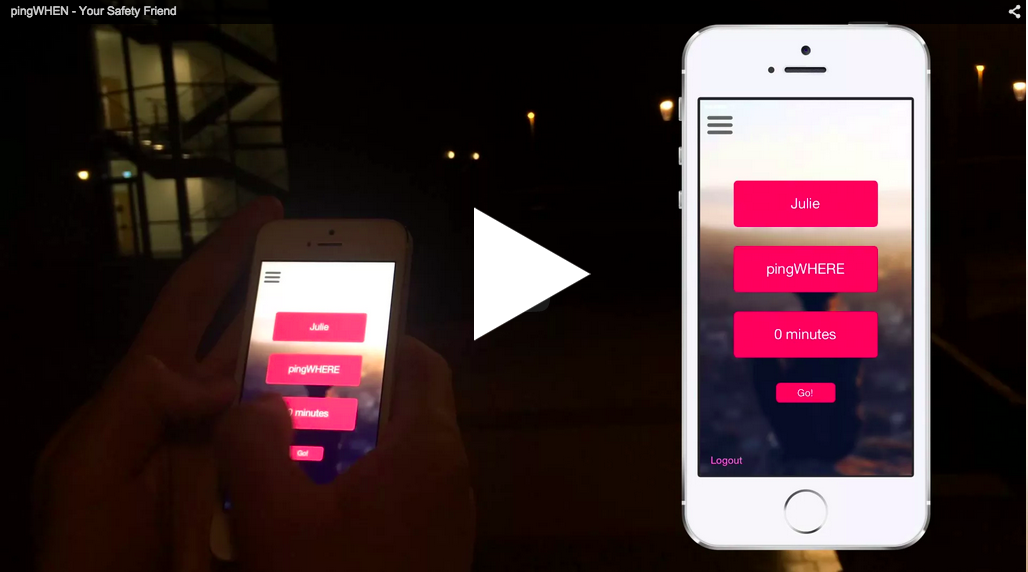
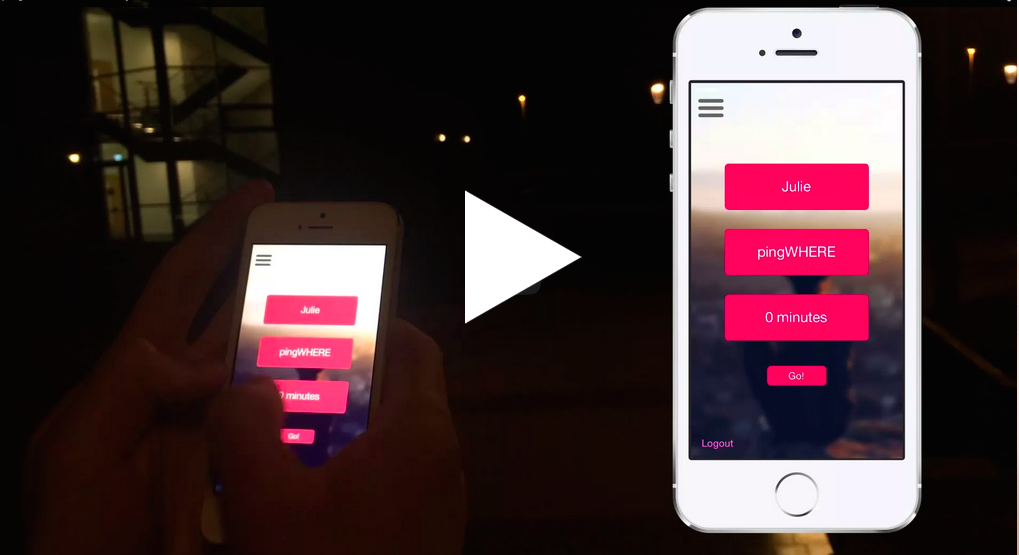
fixed header and text to website

diff --git a/index.php b/index.php
@@ -10,8 +10,8 @@
                         <section class="rw-wrapper">
                             <h2 class="rw-sentence">
                                 <div class="rw-words rw-words-1">
-                                    <span class="white intro-heading">if you arrive</span>
-                                    <span class="white intro-heading">or if you don't</span>
+                                    <span class="white intro-heading">a 'smart' personal safety app</span>
+                                    <span class="white intro-heading">for that 'just in case'</span>
                                 </div>
                             </h2>
                         </section>
@@ -28,9 +28,9 @@
 				<div class="row">
 						<div class="col-md-7">
 							<br>
-							<h2 class="push-top">ping<span class="alternative-font">WHEN</span> is a personal safety app that sends automatic messages when you arrive to a destination, or if you <em>don't</em>.</h2>
+							<h2 class="push-top">ping<span class="alternative-font">WHEN</span> is a personal safety app that sends automatic messages when you arrive to a destination or if you <em>don't</em>.</h2>
 							<h6>
-							    pingWHEN is perfect for those nights when your friends say "text me so I know you are safe" but you forget. Yet, what they really need to know is if you don't arrive. ping<span class="alternative-font">WHEN</span> is for that <em>"just in case"</em> situation if you don't arrive at your destination when expected. Quickly provide essential information to recipients of your choice, telling them exactly where you were going, when you were supposed to arrive, and a link showing where you were last located with pingWHEN.
+							    pingWHEN is perfect for those nights when your friends say <em>"text me so I know you are safe"</em> but you forget. Yet, what your friends really need to know is if you don't arrive to an intended destination. pingWHEN provides an robust 'safety net' that quickly provides essential information to recipients of your choice, telling them exactly where you were going, when you were supposed to arrive, and a link showing where you were last located.
 							</h6>
 						</div>
 						<div class="col-md-4 col-md-offset-1 push-top">
@@ -48,7 +48,7 @@
 								<div class="row center">
 								<h2 class="shorter word-rotator-title">Our <b>Features</b>
 							</h2>
-							<p class="lead">Check out what makes out as a powerful safety beacon</p>
+							<p class="lead">Learn more about our advanced technologies</p>
 						</div>
 
 					</div>
@@ -104,14 +104,14 @@
 						<div class="row">
 						<div class="col-md-7">
 							<span class="video-link" data-video-id="y-Exu_ZX07ljM">
-							    <img class="img-responsive" width="1000" height="2000" src="img/video-1.png" alt="style switcher" data-appear-animation="fadeInRight">
+							    <img class="img-responsive" width="500" height="800" src="img/video.png" alt="style switcher" data-appear-animation="fadeInRight">
 							    </img>
 							</span>
 						</div>
 							<div class="col-md-5">
 							<h2 class="push-top">Curious how it works?  Just Watch!</h2>
 							<h6>
-								ping<span class="alternative-font">WHEN</span> is so silly easy to use - but don't just take our word for it, check it out in action. You can use this app for journeys such as that long walk home late at night, when you jump into a taxi, or a solo run or hike. Have a safety net and a peace of mind for your journeys.
+								ping<span class="alternative-font">WHEN</span> id simple to use - but don't just take our word for it, check it out in action. You can use this app for journeys such as that long walk home late at night, when you jump into a taxi, or a solo run or hike. Have a safety net and a peace of mind for your journeys.
 							</h6>
 							</div>
 						</div>

diff --git a/header.php b/header.php
@@ -97,7 +97,7 @@
 		<div class="container">
 			<div class="logo">
 				<a href="/">
-					<img alt="Porto" width="140" height="70" src="img/logo.png">
+					<img alt="Porto" width="140" height="70" src="img/logo_header.png">
 				</a>
 			</div>
 			<button class="btn btn-responsive-nav btn-inverse" data-toggle="collapse" data-target=".nav-main-collapse">
